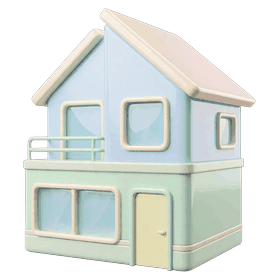
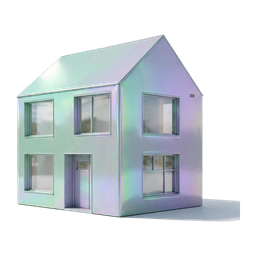
Put artwork back on the category tiles, this time as a matched set
The previous pictures were each drawn in their own style at their own
apparent size, and only sat right after per-category scale and offset values
tuned by hand. This set was generated to one brief — one camera height, one
palette, every object resting on a surface — so none of that is needed.

They are cut out by flooding in from the frame edge rather than thresholding
on brightness, which matters here: the house walls and the glass cubes are
nearly white, and a threshold ate them. The soft contact shadows are kept —
they are close enough to the tile colour to read as shadow rather than as a
grey patch — while the lighter outer halo, which was lighter than the tile,
is removed.

All thirteen are centred on one square with equal margins at 256px, three
times the largest slot. At 512 they weighed two megabytes on the first
screen for no visible gain. A missing or failed image falls back to the
outline icon, since an empty tile reads as a fault.

diff --git a/frontend/src/styles.css b/frontend/src/styles.css
@@ -228,10 +228,12 @@ button{ border:none; background:none; font-family:inherit; cursor:pointer; user-
    чёткий на любом экране и, в отличие от прежних картинок, не требует
    индивидуальной подгонки масштаба и сдвига под каждую категорию. */
 .cat-tile-2row-glyph{
-  position:absolute; right:9px; bottom:8px; width:34px; height:34px;
-  color:var(--primary); opacity:.32; z-index:0; pointer-events:none;
+  position:absolute; right:4px; bottom:3px; width:66px; height:66px;
+  color:var(--primary); z-index:0; pointer-events:none;
 }
-.cat-tile-2row-glyph svg{ width:100%; height:100%; display:block; }
+/* иконка — запасной вариант, поэтому приглушена; у картинки своя подача */
+.cat-tile-2row-glyph svg{ width:52%; height:52%; margin:24%; display:block; opacity:.32; }
+.cat-art{ width:100%; height:100%; object-fit:contain; display:block; }
 
 
 
@@ -306,10 +308,10 @@ button{ border:none; background:none; font-family:inherit; cursor:pointer; user-
   font-size:12.5px; font-weight:700; color:var(--ink); line-height:1.25;
 }
 .cats-img{
-  position:absolute; right:12px; bottom:10px; width:34px; height:34px;
-  color:var(--primary); opacity:.32; z-index:0; pointer-events:none;
+  position:absolute; right:3px; bottom:2px; width:64px; height:64px;
+  color:var(--primary); z-index:0; pointer-events:none;
 }
-.cats-img svg{ width:100%; height:100%; display:block; }
+.cats-img svg{ width:52%; height:52%; margin:24%; display:block; opacity:.32; }
 
 /* ===== stub pages ===== */
 .search-page, .post-ad-page{ padding:calc(18px + env(safe-area-inset-top)) 18px 18px; }
@@ -340,10 +342,10 @@ button{ border:none; background:none; font-family:inherit; cursor:pointer; user-
   font-size:12.5px; font-weight:700; color:var(--ink); line-height:1.25;
 }
 .post-cat-img{
-  position:absolute; right:12px; bottom:10px; width:34px; height:34px;
-  color:var(--primary); opacity:.32; z-index:0; pointer-events:none;
+  position:absolute; right:3px; bottom:2px; width:64px; height:64px;
+  color:var(--primary); z-index:0; pointer-events:none;
 }
-.post-cat-img svg{ width:100%; height:100%; display:block; }
+.post-cat-img svg{ width:52%; height:52%; margin:24%; display:block; opacity:.32; }
 
 .post-fields{ display:flex; flex-direction:column; gap:14px; margin-bottom:20px; }
 
@@ -1144,7 +1146,7 @@ button{ border:none; background:none; font-family:inherit; cursor:pointer; user-
     padding:11px 62px 11px 14px;
   }
   .cat-tile-2row-label{ font-size:13.5px; white-space:normal; }
-  .cat-tile-2row-glyph{ width:40px; height:40px; right:14px; bottom:11px; }
+  .cat-tile-2row-glyph{ width:72px; height:72px; right:6px; bottom:4px; }
 
   /* Лента: пять в ряд. Карточки без белой подложки — у Avito фото
      со скруглением, а текст лежит прямо на фоне страницы: так сетка

diff --git a/frontend/src/pages/Home.jsx b/frontend/src/pages/Home.jsx
@@ -10,7 +10,7 @@ import SearchOverlay from '../components/SearchOverlay'
 import OfflineNotice, { LoadError } from '../components/OfflineNotice'
 import { useAuth } from '../context/AuthContext'
 import { CITIES, cityLabel } from '../data/cities'
-import { CATEGORY_ICONS, FALLBACK_ICON } from '../components/CategoryIcons'
+import CategoryArt from '../components/CategoryArt'
 
 const PROMO_SLIDES = [
   { key: 'safe_deal', to: '/search', icon: 'shield', top: '#0E9F6E', grad: 'linear-gradient(180deg, #0E9F6E 0%, #0E9F6E 22%, #1DB388 48%, #34D8A8 78%, #5CE8CC 100%)' },
@@ -228,14 +228,12 @@ export default function Home() {
         const renderTile = (cat) => cat.isAll ? (
           <Link key="__all" to="/categories" className="cat-tile-2row all">
             <div className="cat-tile-2row-label">{t('common.all')}</div>
-            <div className="cat-tile-2row-glyph">{FALLBACK_ICON}</div>
+            <div className="cat-tile-2row-glyph"><CategoryArt slug="all" /></div>
           </Link>
         ) : (
           <Link key={cat.id} to={`/search?category=${cat.slug}`} className="cat-tile-2row">
             <div className="cat-tile-2row-label">{cat.name?.[i18n.language] || cat.name?.ru}</div>
-            <div className="cat-tile-2row-glyph">
-              {CATEGORY_ICONS[cat.slug] || FALLBACK_ICON}
-            </div>
+            <div className="cat-tile-2row-glyph"><CategoryArt slug={cat.slug} /></div>
           </Link>
         )
         if (!catsLoaded) {

diff --git a/frontend/src/components/CategoryArt.jsx b/frontend/src/components/CategoryArt.jsx
@@ -1,0 +1,28 @@
+import { useState } from 'react'
+import { CATEGORY_ICONS, FALLBACK_ICON } from './CategoryIcons'
+
+/**
+ * Картинка категории. Если файла нет или он не загрузился — показываем
+ * контурную иконку: пустое место в плитке выглядит как поломка, а иконка
+ * читается нормально.
+ *
+ * Все картинки приведены к общему квадрату 512×512 с равными полями, так
+ * что подгонять масштаб и сдвиг под каждую категорию не нужно.
+ */
+export default function CategoryArt({ slug }) {
+  const [failed, setFailed] = useState(false)
+
+  if (failed || !slug) {
+    return CATEGORY_ICONS[slug] || FALLBACK_ICON
+  }
+
+  return (
+    <img
+      className="cat-art"
+      src={`/cat/${slug}.png`}
+      alt=""
+      loading="lazy"
+      onError={() => setFailed(true)}
+    />
+  )
+}

diff --git a/frontend/src/pages/Categories.jsx b/frontend/src/pages/Categories.jsx
@@ -3,7 +3,7 @@ import { useTranslation } from 'react-i18next'
 import { Link, useNavigate } from 'react-router-dom'
 import { api } from '../api/client'
 import { CategorySkeletons } from '../components/Skeletons'
-import { CATEGORY_ICONS, FALLBACK_ICON } from '../components/CategoryIcons'
+import CategoryArt from '../components/CategoryArt'
 
 export default function Categories() {
   const { t, i18n } = useTranslation()
@@ -41,7 +41,7 @@ export default function Categories() {
         {loaded && categories.map((cat) => (
           <Link key={cat.id} to={`/search?category=${cat.slug}`} className="cats-item">
             <span className="cats-label">{cat.name?.[i18n.language] || cat.name?.ru}</span>
-            <span className="cats-img">{CATEGORY_ICONS[cat.slug] || FALLBACK_ICON}</span>
+            <span className="cats-img"><CategoryArt slug={cat.slug} /></span>
           </Link>
         ))}
       </div>

diff --git a/frontend/src/pages/PostAd.jsx b/frontend/src/pages/PostAd.jsx
@@ -5,7 +5,7 @@ import { api } from '../api/client'
 import { CITIES, cityLabel } from '../data/cities'
 import { shrinkImage } from '../data/shrinkImage'
 import { useAuth } from '../context/AuthContext'
-import { CATEGORY_ICONS, FALLBACK_ICON } from '../components/CategoryIcons'
+import CategoryArt from '../components/CategoryArt'
 
 const STEPS = ['category', 'attributes', 'details', 'contact']
 
@@ -164,7 +164,7 @@ export default function PostAd() {
                 <span className="post-cat-label">
                   {cat.name?.[i18n.language] || cat.name?.ru}
                 </span>
-                <span className="post-cat-img">{CATEGORY_ICONS[cat.slug] || FALLBACK_ICON}</span>
+                <span className="post-cat-img"><CategoryArt slug={cat.slug} /></span>
               </button>
             ))}
           </div>
